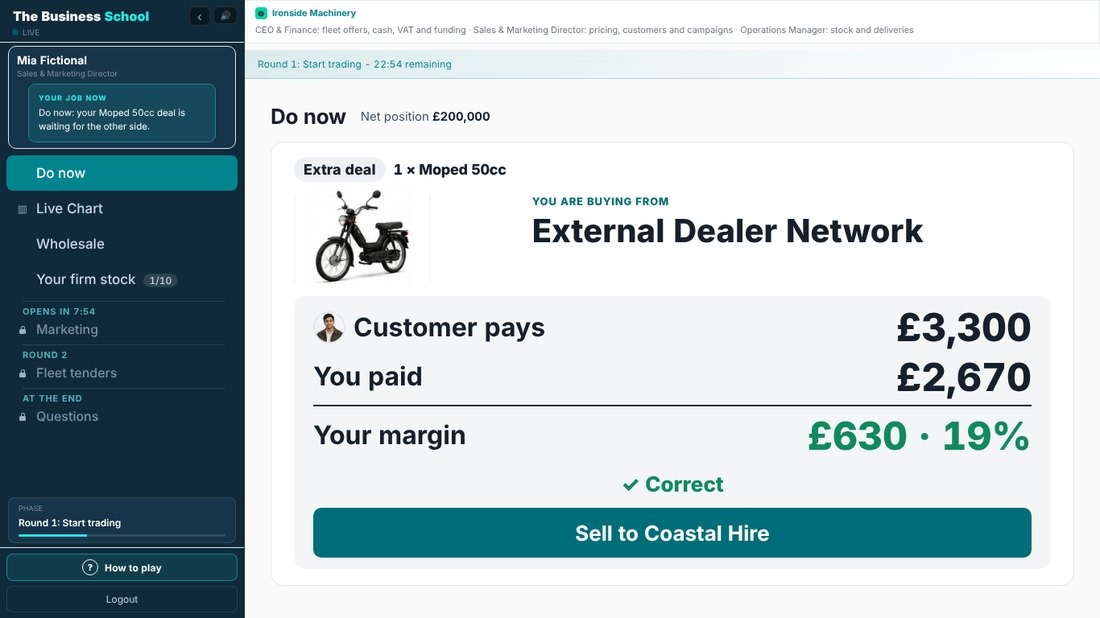
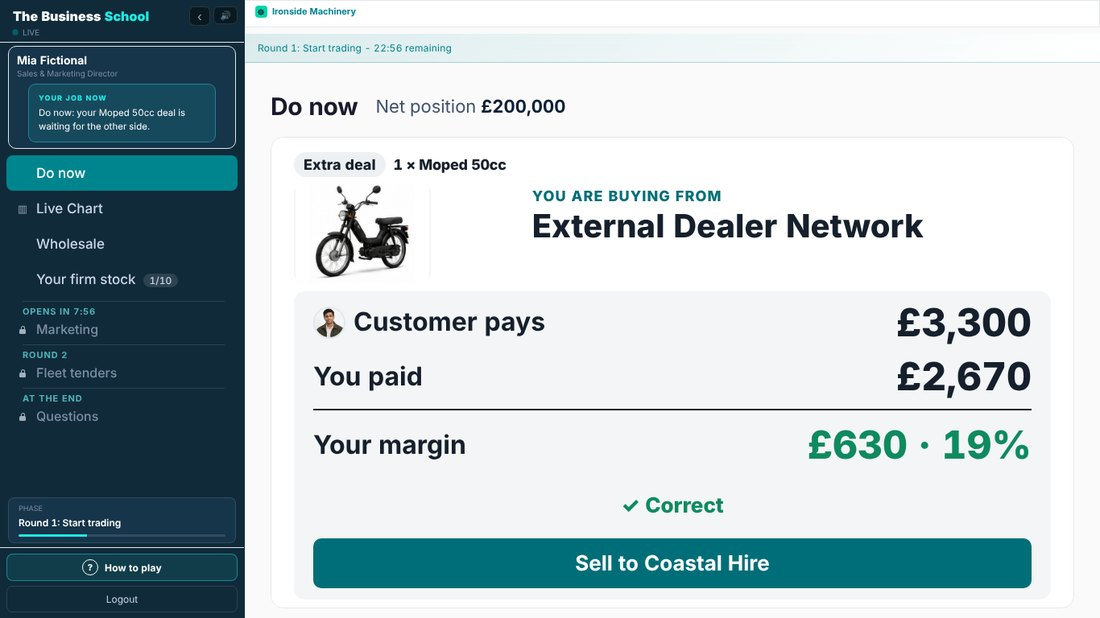
Site: how-a-lesson-runs pictures 3 and 3b from the final deal card (pound sign preset in the box, roles line gone) (owner 25.10.2026)
Claude-Session: https://claude.ai/code/session_01Np2n7mwxyzcaQWByNZ1ReD

diff --git a/index.html b/index.html
@@ -677,12 +677,12 @@
       <li class="tbs-howto__step">
         <span class="tbs-howto__dot">3</span>
         <div class="tbs-howto__text"><h3>Everyone has a role and a job</h3><p>Students buy, price and negotiate face to face.</p></div>
-        <img class="tbs-howto__img" src="/assets/tbs-web/howto/3-deal.jpg?v=20261025" alt="Everyone has a role and a job" loading="lazy" width="1100" height="618">
+        <img class="tbs-howto__img" src="/assets/tbs-web/howto/3-deal.jpg?v=20261025b" alt="Everyone has a role and a job" loading="lazy" width="1100" height="618">
       </li>
       <li class="tbs-howto__step">
         <span class="tbs-howto__dot">4</span>
         <div class="tbs-howto__text"><h3>Every deal checks the margin</h3><p>Students work out the margin in pounds and per cent before they sell.</p></div>
-        <img class="tbs-howto__img" src="/assets/tbs-web/howto/3b-margin.jpg?v=20261025" alt="Every deal checks the margin" loading="lazy" width="1100" height="618">
+        <img class="tbs-howto__img" src="/assets/tbs-web/howto/3b-margin.jpg?v=20261025b" alt="Every deal checks the margin" loading="lazy" width="1100" height="618">
       </li>
       <li class="tbs-howto__step">
         <span class="tbs-howto__dot">5</span>
